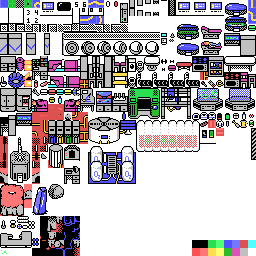
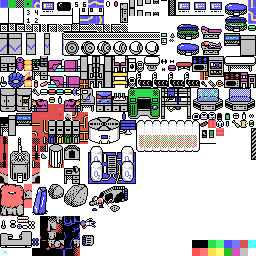
started working on the flyer crash site

Changed region(s): [[0.25, 0.7188, 0.5, 0.9688]]

diff --git a/src/ai/tests/nlp-test2.ts b/src/ai/tests/nlp-test2.ts
@@ -236,6 +236,7 @@ NLParseTest("all chairs", o.getSort("nounPhrase"), context, "nounPhrase(V0:'chai
 NLParseTest("these chairs", o.getSort("nounPhrase"), context, "nounPhrase(V0:'chair'[chair], V1:[plural], V2:[third-person], V3:#and(close-demonstrative-determiner(V0, V1), V4:noun(V0, V1)))");
 NLParseTest("all these chairs", o.getSort("nounPhrase"), context, "nounPhrase(V0:'chair'[chair], V1:[plural], V2:[third-person], V3:#and(close-demonstrative-determiner(V0, V1), V4:noun(V0, V1)))");
 NLParseTest("all of these chairs", o.getSort("nounPhrase"), context, "nounPhrase(V0:'chair'[chair], V1:[plural], V2:[third-person], V3:#and(close-demonstrative-determiner(V0, V1), V4:noun(V0, V1)))");
+NLParseTest("all of these chairs", o.getSort("nounPhrase"), context, "nounPhrase(V0:'chair'[chair], V1:[plural], V2:[third-person], V3:#and(close-demonstrative-determiner(V0, V1), V4:noun(V0, V1)))");
 NLParseTest("my chair", o.getSort("nounPhrase"), context, "nounPhrase(V0:'chair'[chair], V1:[singular], V2:[third-person], V3:#and(V4:determiner.my(V0, V1), V5:noun(V0, V1)))");
 NLParseTest("all white chairs", o.getSort("nounPhrase"), context, "nounPhrase(V0:'chair'[chair], V1:[plural], V2:[third-person], V3:#and(all(V0, V1), #and(adjective(V0, 'white'[white]), V4:noun(V0, V1))))");
 NLParseTest("all the chairs", o.getSort("nounPhrase"), context, "nounPhrase(V0:'chair'[chair], V1:[plural], V2:[third-person], V3:#and(the(V0, V1), V4:noun(V0, V1)))");
@@ -936,7 +937,19 @@ NLParseTestUnifyingListener("etaoin repaired the ship", o.getSort("performative"
 NLParseTestUnifyingListener("what do I do?", o.getSort("performative"), context, 'etaoin',  "perf.q.query('etaoin'[#id], X, goal('1'[#id],X))");
 
 // For version 2.6:
-NLParseTestUnifyingListener("who erased the ship?", o.getSort("performative"), context, 'etaoin',  "perf.q.query('etaoin'[#id], X, #and(character(X), verb.erase(X, '2'[#id])))");
+NLParseTestUnifyingListener("who erased the ship?", o.getSort("performative"), context, 'etaoin',  "perf.q.query('etaoin'[#id], X, #and(character(X), action.erase(X, '2'[#id])))");
+NLParseTestUnifyingListener("who erase the ship?", o.getSort("performative"), context, 'etaoin',  "perf.q.query('etaoin'[#id], X, #and(character(X), action.erase(X, '2'[#id])))");
+NLParseTestUnifyingListener("All humans speak english", o.getSort("performative"), context, 'etaoin',  "perf.inform('etaoin'[#id], #or(#not(human(X:[#id])),verb.speak(X, 'english'[#id])))");
+NLParseTestUnifyingListener("the ship is either white or blue", o.getSort("performative"), context, 'etaoin',  "perf.inform('etaoin'[#id], #or(color('2'[#id],'white'[white]), color('2'[#id],'blue'[blue])))");
+NLParseTestUnifyingListener("the ship is white or blue", o.getSort("performative"), context, 'etaoin',  "perf.inform('etaoin'[#id], #or(color('2'[#id],'white'[white]), color('2'[#id],'blue'[blue])))");
+NLParseTestUnifyingListener("the color of the ship is either white or blue", o.getSort("performative"), context, 'etaoin',  "perf.inform('etaoin'[#id], #or(color('2'[#id],'white'[white]), color('2'[#id],'blue'[blue])))");
+NLParseTestUnifyingListener("All robots are machines", o.getSort("performative"), context, 'etaoin',  "perf.inform('etaoin'[#id], #or(#not(robot(X:[#id])), machine(X)))");
+NLParseTestUnifyingListener("robots are machines", o.getSort("performative"), context, 'etaoin',  "perf.inform('etaoin'[#id], #or(#not(robot(X:[#id])), machine(X)))");
+NLParseTestUnifyingListener("robots are not machines", o.getSort("performative"), context, 'etaoin',  "perf.inform('etaoin'[#id], #or(#not(robot(X:[#id])), #not(machine(X))))");
+NLParseTestUnifyingListener("I do not have a key", o.getSort("performative"), context, 'etaoin', "perf.inform('etaoin'[#id], #or(#not(verb.have('1'[#id], X)), #not(key(X))))");
+NLParseTestUnifyingListener("all of my keys are white", o.getSort("performative"), context, 'etaoin', "perf.inform('etaoin'[#id], color('4'[#id],'white'[white]))");
+NLParseTestUnifyingListener("all humans who are alive are small", o.getSort("performative"), context, 'etaoin', "perf.inform('etaoin'[#id], #or(#not(#and(human(X:[#id]), alive(X))), small(X)))");
+NLParseTestUnifyingListener("all alive humans are small", o.getSort("performative"), context, 'etaoin', "perf.inform('etaoin'[#id], #or(#not(#and(human(X:[#id]), alive(X))), small(X)))");
 
 
 console.log(successfulTests + "/" + totalTests + " successtul parses");

diff --git a/src/ShrdluGameScript.ts b/src/ShrdluGameScript.ts
@@ -1978,6 +1978,7 @@ class ShrdluGameScript {
 			if (this.game.etaoinAI.intentions.length == 0 &&
 				this.game.etaoinAI.queuedIntentions.length == 0 &&
 				this.game.currentPlayer.map.textBubbles.length == 0) {
+				this.addKnowledgeToEtaoinAfterRepair()
 				this.etaoinSays("perf.inform('david'[#id], #and(X:verb.repair('shrdlu'[#id], 'etaoin-memory'[#id]), time.past(X)))");
 				this.act_2_state = 202;
 			}
@@ -2836,6 +2837,25 @@ class ShrdluGameScript {
 		} else {
 			this.qwerty_agenda_state_timer = 0;
 		}
+	}
+
+
+	addKnowledgeToEtaoinAfterRepair()
+	{
+		this.game.etaoinAI.addLongTermTerm(Term.fromString("ship('tardis8'[#id])", this.game.ontology), BACKGROUND_PROVENANCE);
+		this.game.etaoinAI.addLongTermTerm(Term.fromString("ai('tardis8'[#id])", this.game.ontology), BACKGROUND_PROVENANCE);
+		this.game.etaoinAI.addLongTermTerm(Term.fromString("name('tardis8'[#id],'tardis 8'[symbol])", this.game.ontology), BACKGROUND_PROVENANCE);
+
+		this.game.etaoinAI.addLongTermTermWithTime(Term.fromString("verb.leave('tardis8'[#id],'earth'[#id])", this.game.ontology), BACKGROUND_PROVENANCE, 41338676700);
+		this.game.etaoinAI.addLongTermTermWithTime(Term.fromString("verb.arrive('tardis8'[#id],'aurora'[#id])", this.game.ontology), BACKGROUND_PROVENANCE, 42895872000);
+		this.game.etaoinAI.addLongTermTermWithTime(Term.fromString("verb.build('tardis8'[#id],'location-aurora-station'[#id])", this.game.ontology), BACKGROUND_PROVENANCE, 42895872000);
+
+		this.game.etaoinAI.addLongTermTermWithTime(Term.fromString("verb.go-to('etaoin'[#id],'aurora'[#id])", this.game.ontology), BACKGROUND_PROVENANCE, 42895872000);
+		this.game.etaoinAI.addLongTermTermWithTime(Term.fromString("verb.go-to('qwerty'[#id],'aurora'[#id])", this.game.ontology), BACKGROUND_PROVENANCE, 42895872000);
+		this.game.etaoinAI.addLongTermTermWithTime(Term.fromString("verb.go-to('shrdlu'[#id],'aurora'[#id])", this.game.ontology), BACKGROUND_PROVENANCE, 42895872000);
+		this.game.etaoinAI.addLongTermTermWithTime(Term.fromString("verb.go-to('jcuken'[#id],'aurora'[#id])", this.game.ontology), BACKGROUND_PROVENANCE, 42895872000);
+		// this.game.etaoinAI.addLongTermTermWithTime(Term.fromString("verb.go-to('david'[#id],'aurora'[#id])", this.game.ontology), BACKGROUND_PROVENANCE, 42895872000);
+		// this.game.etaoinAI.addLongTermTermWithTime(Term.fromString("property.born('david'[#id])", this.game.ontology), BACKGROUND_PROVENANCE, 40392525600);
 	}
 
 

diff --git a/src/ai/RuleBasedAI.ts b/src/ai/RuleBasedAI.ts
@@ -364,6 +364,12 @@ class RuleBasedAI {
 
 	addLongTermTerm(t:Term, provenance:string)
 	{
+		this.addLongTermTermWithTime(t, provenance, this.time_in_seconds)
+	}
+
+
+	addLongTermTermWithTime(t:Term, provenance:string, time:number)
+	{
 		// intentions:
 		if (t.functor == this.cache_sort_intention) {
 			this.intentions.push(new IntentionRecord(
@@ -371,12 +377,12 @@ class RuleBasedAI {
 								   	t.attributes.length > 0 ? t.attributes[1]:null,
 								   	null,
 								   	null,
-								   	this.time_in_seconds));
+								   	time));
 			return;
 		}
 
 		if (t.functor.is_a(this.cache_sort_stateSort)) {
-			if (this.longTermMemory.addStateSentenceIfNew(new Sentence([t],[true]), provenance, 1, this.time_in_seconds)) {
+			if (this.longTermMemory.addStateSentenceIfNew(new Sentence([t],[true]), provenance, 1, time)) {
 				// term added
 				for(let context of this.contexts) {
 					context.newLongTermStateTerm(t);
@@ -384,7 +390,7 @@ class RuleBasedAI {
 				this.reactiveBehaviorUpdate(t);
 			}
 		} else {		
-			if (this.longTermMemory.addSentenceIfNew(new Sentence([t],[true]), provenance, 1, this.time_in_seconds)) {
+			if (this.longTermMemory.addSentenceIfNew(new Sentence([t],[true]), provenance, 1, time)) {
 				// term added
 				for(let context of this.contexts) {
 					context.newLongTermTerm(t);

diff --git a/src/ai/nlp/NLPos.ts b/src/ai/nlp/NLPos.ts
@@ -1367,7 +1367,7 @@ this.addTokenPOS(new PartOfSpeech("allowed to enter", "permitted-in", Term.fromS
     this.addStandardVerbPOS("verb.do", "do","does","did","done","doing", false, multitokens_raw, o);
     this.addStandardVerbPOS("verb.enumerate", "enumerate","enumerates","enumerated","enumerated","enumerating", false, multitokens_raw, o);
     this.addStandardVerbPOS("verb.enter", "enter","enters","entered","entered","entering", false, multitokens_raw, o);
-    this.addStandardVerbPOS("verb.erase", "erase","erases","erased","erased","erasing", false, multitokens_raw, o);
+    this.addStandardVerbPOS("action.erase", "erase","erases","erased","erased","erasing", false, multitokens_raw, o);
     this.addStandardVerbPOS("verb.examine", "examine","examines","examined","examined","examining", false, multitokens_raw, o);
     this.addStandardVerbPOS("verb.face", "face","faces","faced","faced","facing", false, multitokens_raw, o);
     this.addStandardVerbPOS("verb.leave", "exit","exits","exited","exited","exiting", false, multitokens_raw, o);
